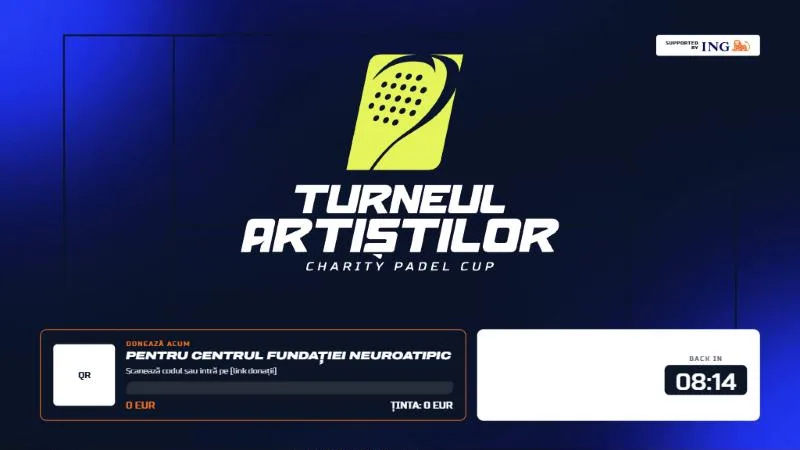
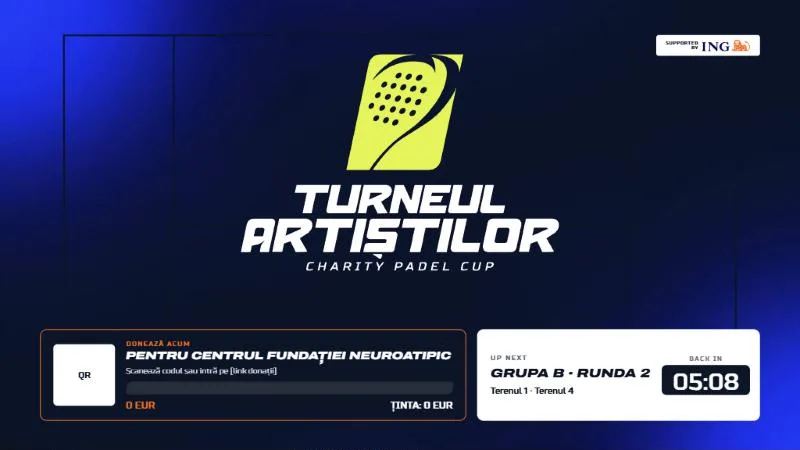
Preview BRB cu exemplu de Up next
Claude-Session: https://claude.ai/code/session_01RySot4KeEAZKw5JAdsZ7CL

Changed region(s): [[0.5938, 0.7778, 0.9375, 0.9022]]

diff --git a/rundown.html b/rundown.html
@@ -189,7 +189,7 @@
 <script src="https://www.gstatic.com/firebasejs/10.14.1/firebase-firestore-compat.js"></script>
 <script src="https://www.gstatic.com/firebasejs/10.14.1/firebase-storage-compat.js"></script>
 <script src="kairos-audio.js?v=202611101300"></script>
-<script src="kairos-visual.js?v=202611122030"></script>
+<script src="kairos-visual.js?v=202611122040"></script>
 <script src="sync.js?v=202611101300"></script>
 <script src="rundown-data.js?v=202611040403"></script>
 <script src="app.js?v=202611111800"></script>

diff --git a/client.html b/client.html
@@ -117,7 +117,7 @@ summary { cursor:pointer; }
 <script src="https://www.gstatic.com/firebasejs/10.14.1/firebase-auth-compat.js"></script>
 <script src="https://www.gstatic.com/firebasejs/10.14.1/firebase-firestore-compat.js"></script>
 <script src="kairos-audio.js?v=202611101300"></script>
-<script src="kairos-visual.js?v=202611122030"></script>
+<script src="kairos-visual.js?v=202611122040"></script>
 <script src="sync.js?v=202611101300"></script>
 <script src="rundown-data.js?v=202611040403"></script>
 <script>

diff --git a/kairos-visual.js b/kairos-visual.js
@@ -11,7 +11,7 @@
     "eliminatorie": "Faza eliminatorie", "road-to-final": "Road to the final", "brb": "Be right back",
     "campioni": "Campioni", "sponsori": "Sponsori", "thanks": "Thanks for watching",
   };
-  const V = "2";
+  const V = "3";
   const esc = (s) => String(s ?? "").replace(/[&<>"']/g, (c) => ({ "&": "&amp;", "<": "&lt;", ">": "&gt;", '"': "&quot;", "'": "&#39;" }[c]));
   function resolve(v) {
     if (!v) return null;
